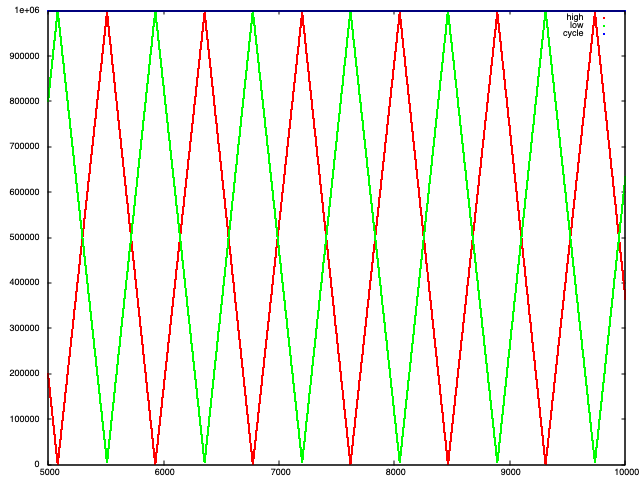
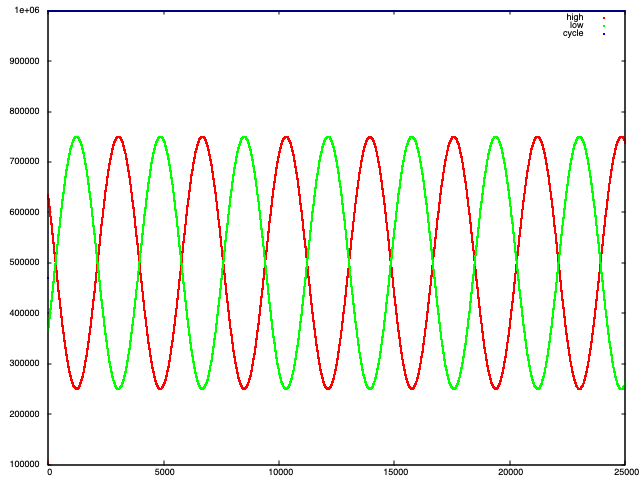
More interesting example

diff --git a/picounter/README.md b/picounter/README.md
@@ -11,18 +11,17 @@ Though not sure how reliable will be below this.
 Hook up second pico running MicroPython as a pulse generator, hooking up a PWM to a GPIO pin such as:
 
 ```python
-from machine import Pin, PWM, RTC
-from time import sleep, time
+from machine import Pin, PWMC
+from math import sin
 
 pwm = PWM(Pin(17))
+pwm.freq(1000)
 
 for j in range(100):
-    for duty in range(0, 0xff00, 2):
-        pwm.duty_u16(duty)
-    for duty in range(0xff00, 0, -2):
-        pwm.duty_u16(duty)
+    for t in range(0, 62832):
+        pwm.duty_u16(int(0x8000 + 0x4000 * sin(0.0001 * t)))
 ```
 
-This will generate PWM pulses on (it would seem) a default frequency of 1 kHz, with duty cycle from 0 to nearly 100%. Hooking up the timer and saving the high and low times from this (sampling from the middle of a "run") gives the following output:
+This will generate PWM pulses on (it would seem) a default frequency of 1 kHz, with duty cycle from 25% to 75%. Hooking up the timer and saving the high and low times from this (sampling from the middle of a "run") gives the following output:
 
 ![PWM graph](./pwm.png)
